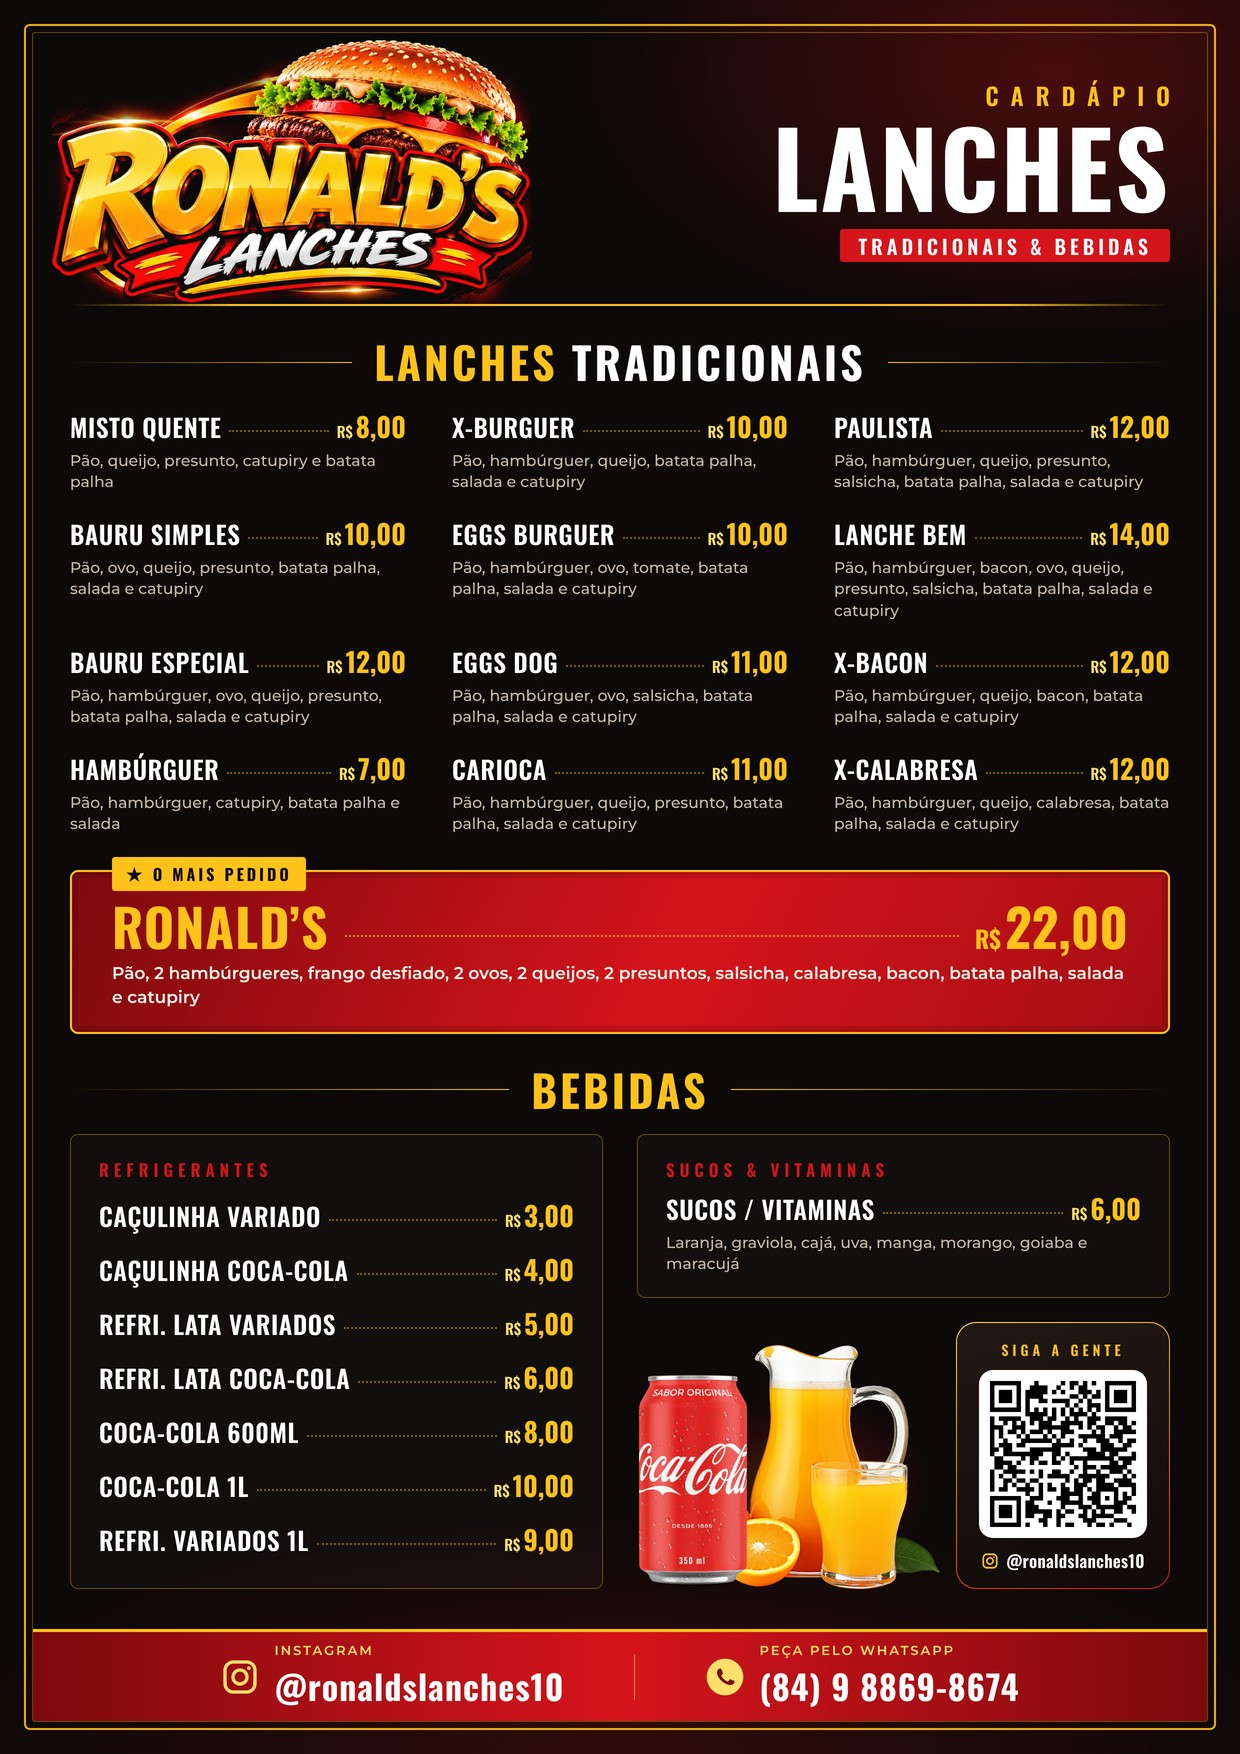
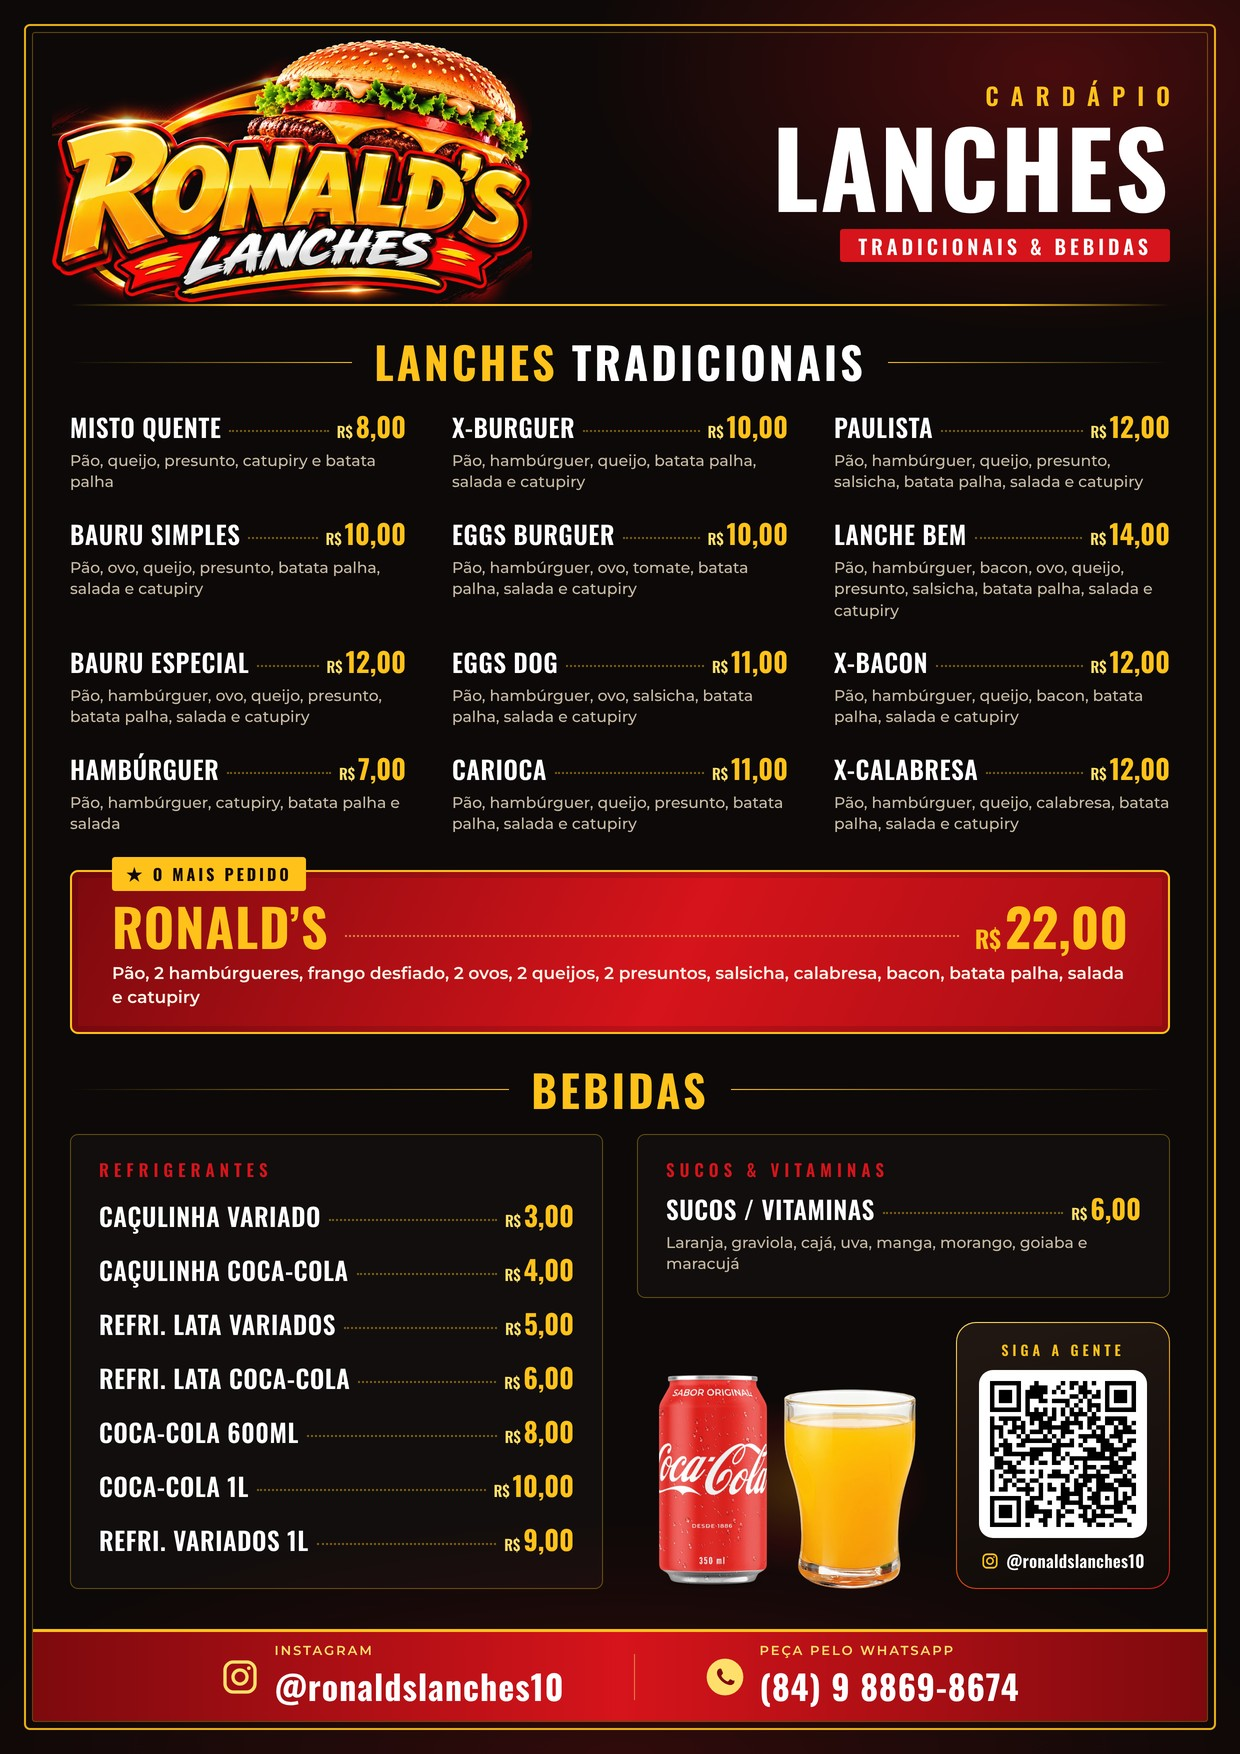
Cardápio: remove jarra de suco, mantém só o copo e a lata
Claude-Session: https://claude.ai/code/session_01JbDU6t4xcGAMxiKExsmJbQ

Changed region(s): [[0.4903, 0.7697, 0.7661, 0.9236]]

diff --git a/cardapio/cardapio.html b/cardapio/cardapio.html
@@ -87,8 +87,8 @@
   .drinks{flex:1;position:relative}
   .drinks::before{content:"";position:absolute;inset:4% -6% 0;background:radial-gradient(ellipse 52% 46% at 55% 60%, rgba(255,150,20,.24), rgba(214,20,27,.12) 50%, transparent 75%)}
   .drinks img{position:absolute;bottom:0;display:block;width:auto}
-  .drinks .suco{right:-6px;height:244px}
-  .drinks .lata{left:2px;height:214px}
+  .drinks .suco{right:18px;height:200px}
+  .drinks .lata{left:22px;height:214px}
   .qrcard{width:214px;border-radius:20px;padding:16px 16px 14px;text-align:center;display:flex;flex-direction:column;align-items:center;justify-content:center;gap:10px;
     border:1.5px solid transparent;
     background:linear-gradient(165deg,#221813,#100b09) padding-box, linear-gradient(160deg,var(--gold-lt),var(--gold-dk) 45%,var(--red) 100%) border-box}
@@ -162,7 +162,7 @@
         <p class="desc">Laranja, graviola, cajá, uva, manga, morango, goiaba e maracujá</p>
       </div>
       <div class="drinkrow">
-        <div class="drinks"><img class="suco" src="assets/suco-laranja.webp" alt="Suco de laranja"><img class="lata" src="assets/coca-cola-lata.webp" alt="Coca-Cola lata"></div>
+        <div class="drinks"><img class="suco" src="assets/copo-suco.webp" alt="Copo de suco"><img class="lata" src="assets/coca-cola-lata.webp" alt="Coca-Cola lata"></div>
         <div class="qrcard">
           <div class="qrk">Siga a gente</div>
           <div class="qrbox"><img src="assets/qr-instagram.svg" alt="QR Code Instagram"></div>
